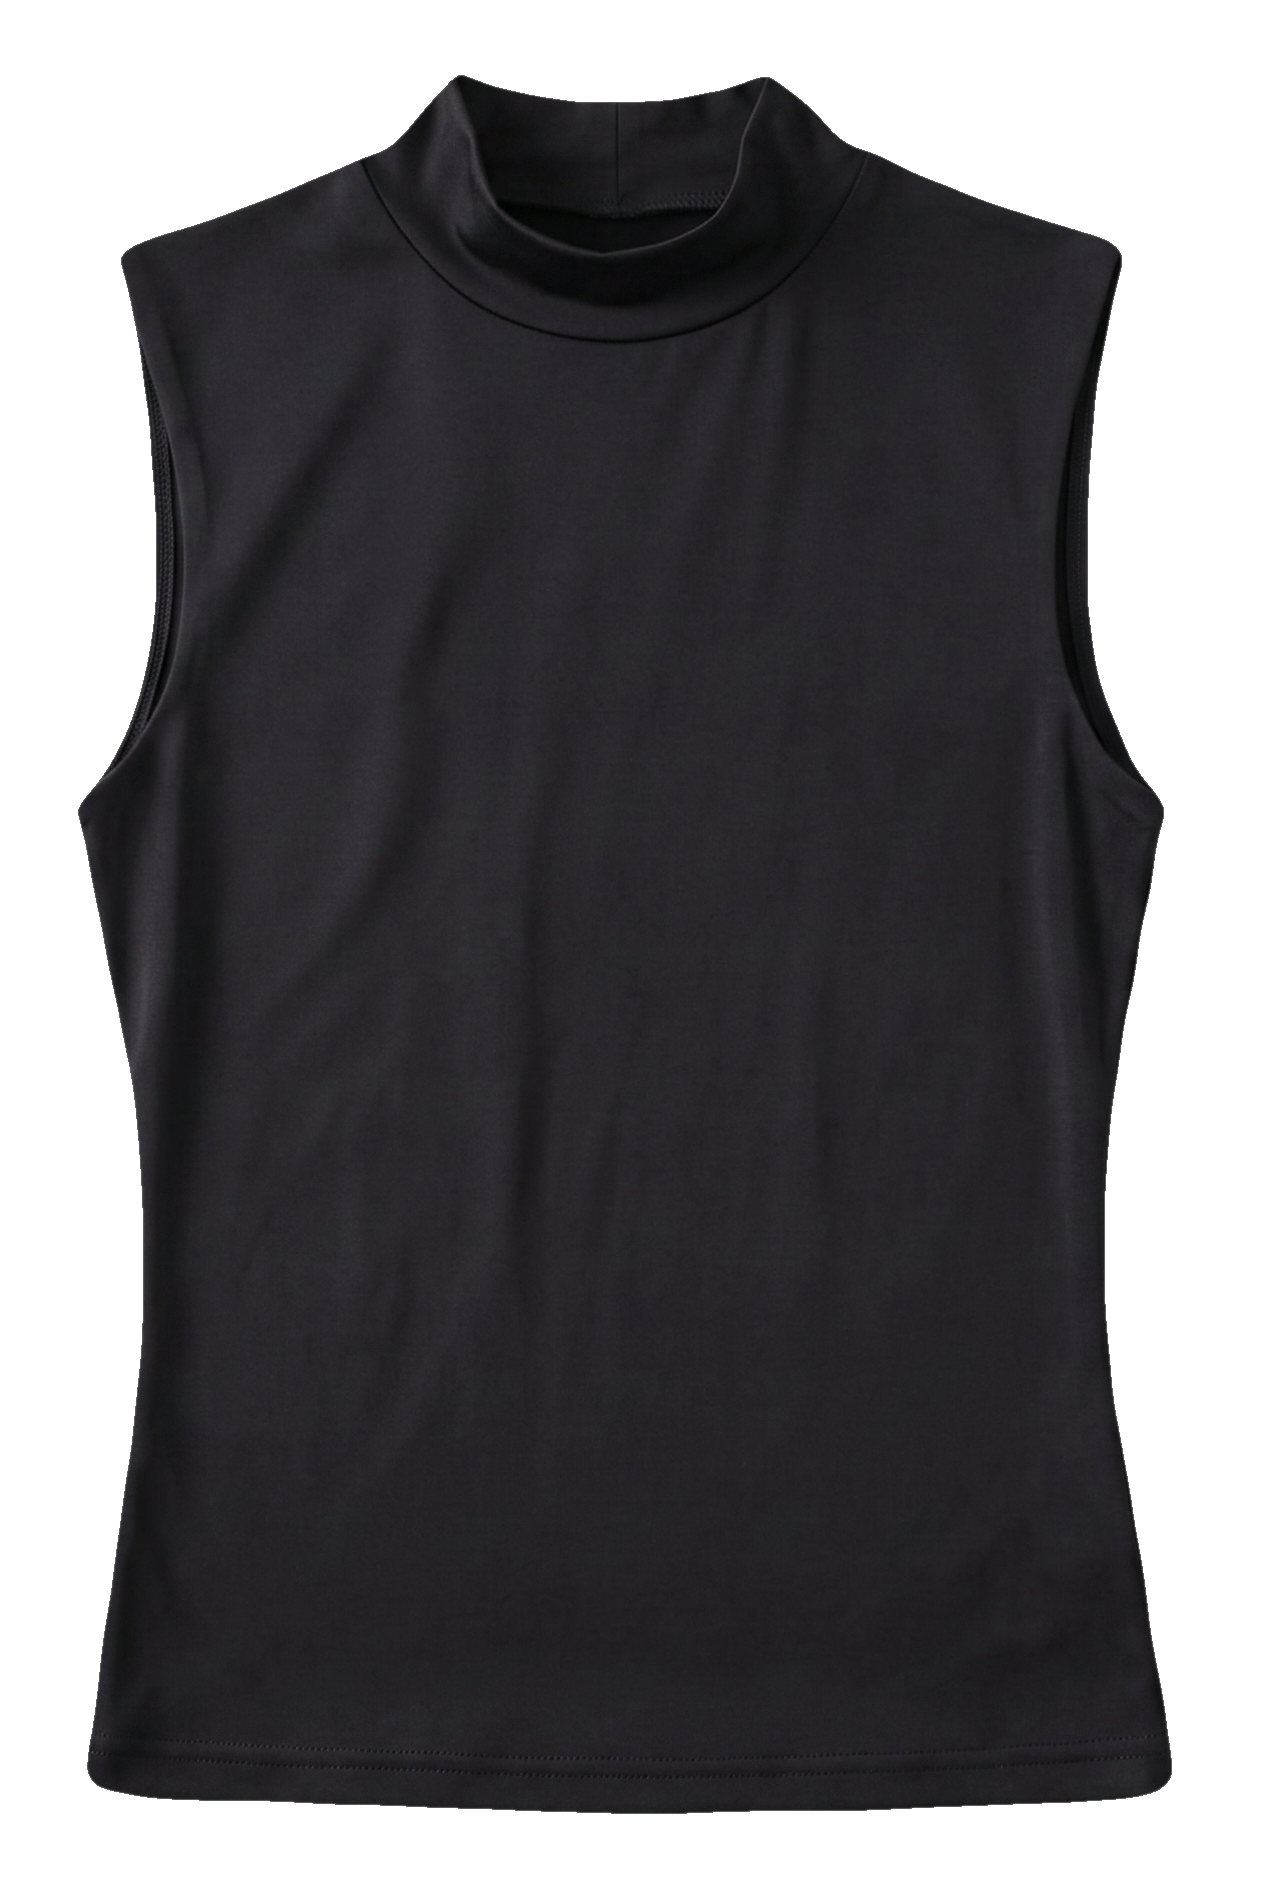
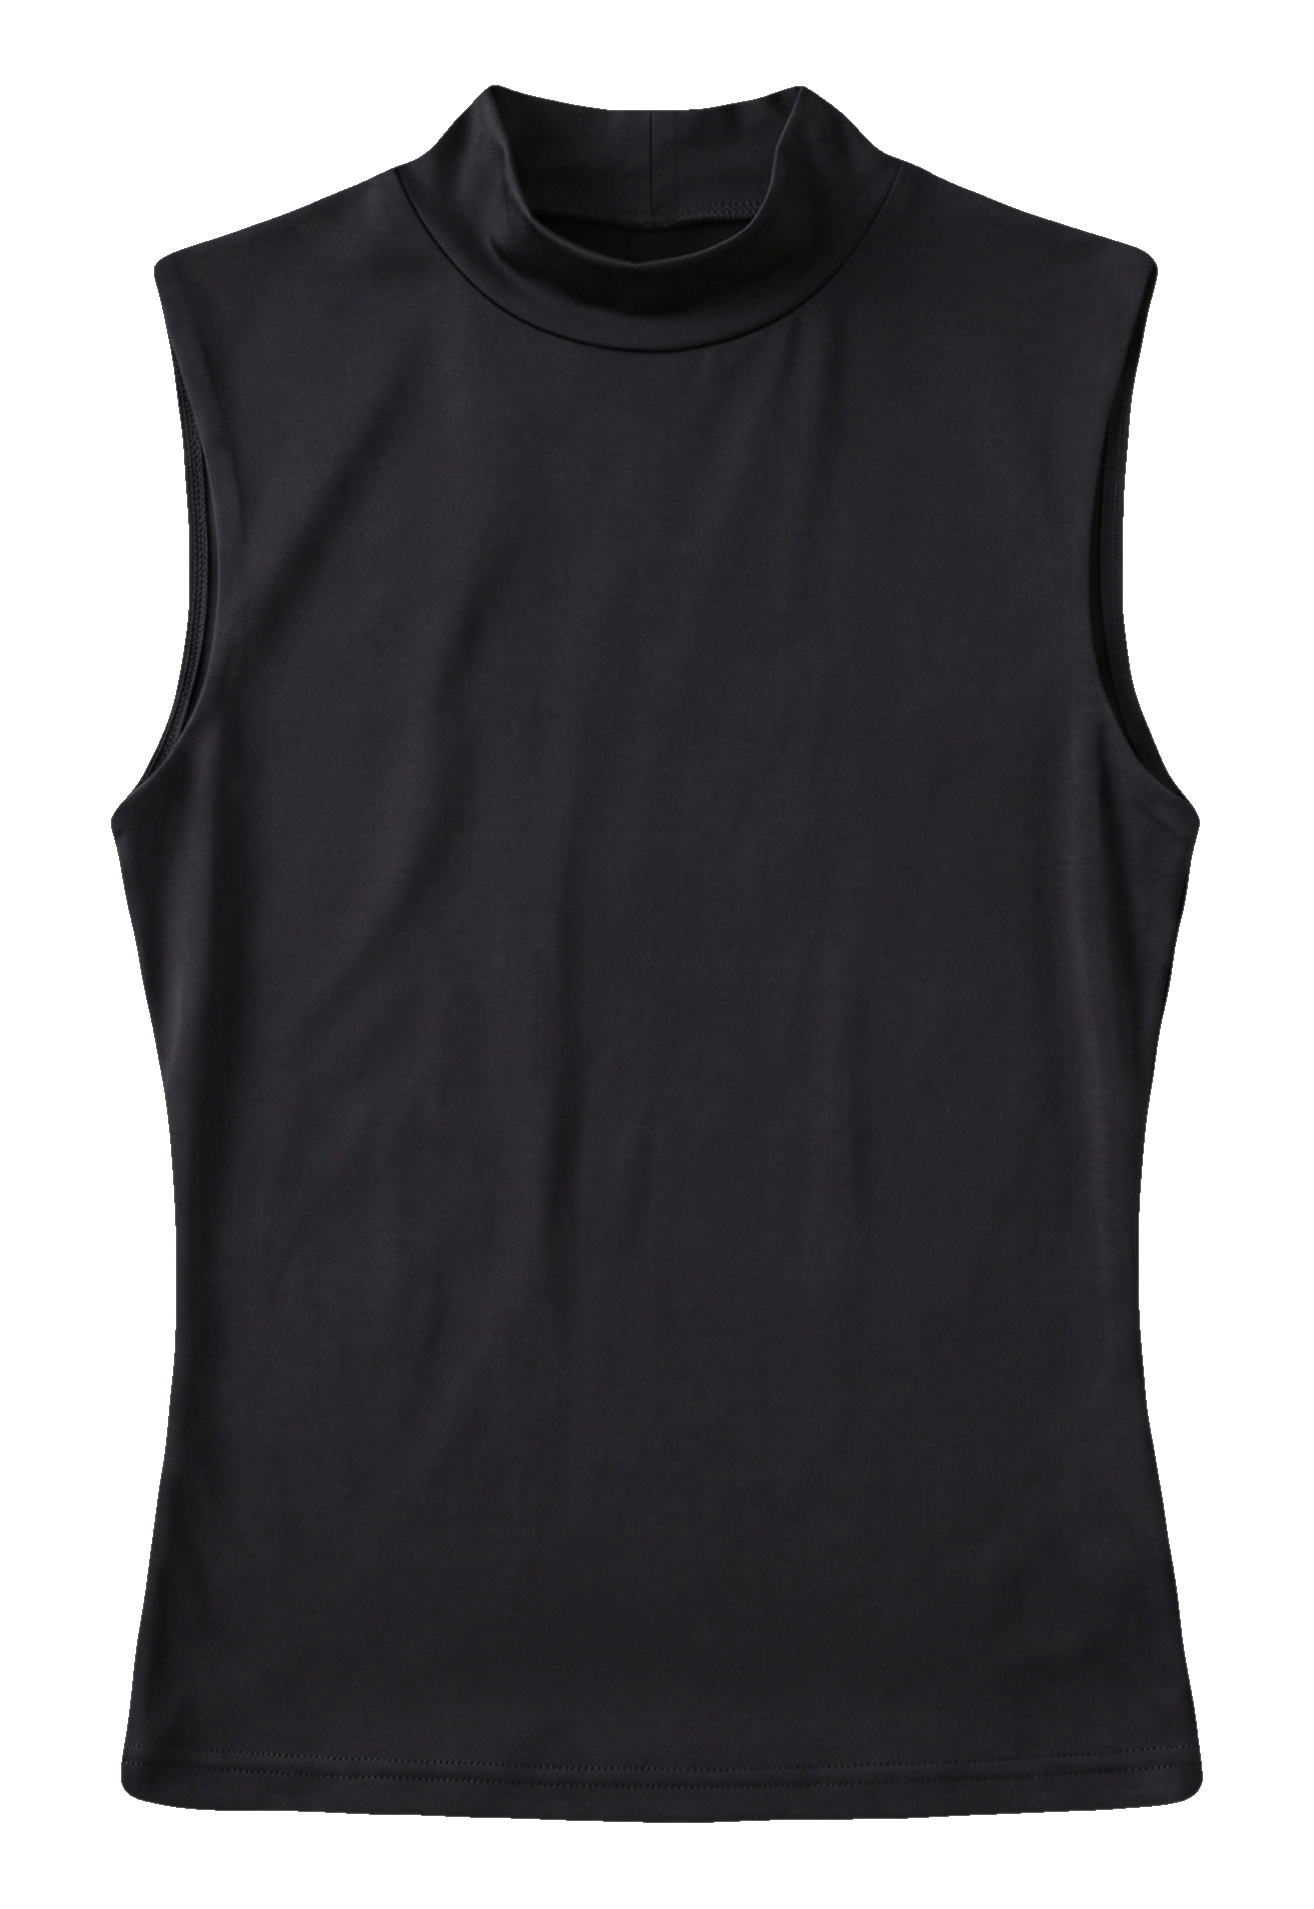
Align the garments, add beige to the spin, and shift the brown reel
Three changes to the reveal.

Alignment: a shared crop rectangle keeps scale but not position, and these
garments were laid out differently enough that their bounding boxes sat up to
38px apart, so the row read as visibly out of line at rest. Each garment's own
box is now centred in a common canvas - same scale, same centreline.

Beige joins the strip as a fourth colourway, so it cycles past during the
spin, but the reels still start on brown / white / black and still land on
white / black / brown; beige is only ever glimpsed in motion.

The settled brown reel now breathes between brown and beige via a new
reels.colorShift, cross-fading a second garment over the detent. Its period
is set so two full cycles fit the tail and the final frame lands exactly back
on brown rather than mid-fade.

Matting also learned to fit the backdrop as a quadratic surface per channel.
The beige shot falls off from rgb(211,208,215) to rgb(167,163,171) across the
frame; against a single median colour its dark corner read as far from the
backdrop as the garment, and the whole frame matted as foreground.

Claude-Session: https://claude.ai/code/session_0176GuHuZoF2gQcbdP876Pv9

diff --git a/src/slot.js b/src/slot.js
@@ -127,6 +127,29 @@ window.build = function (cfg) {
     });
   }
 
+  /* ---- colourway shift overlay, sitting in the detent ---- */
+  const shiftsEl = document.getElementById('shifts');
+  shiftsEl.innerHTML = '';
+  S.shifts = [];
+  const cs = cfg.reels.colorShift;
+  for (let r = 0; r < R; r++) {
+    const col = document.createElement('div');
+    col.className = 'shiftcol';
+    const box = document.createElement('div');
+    box.className = 'cellbox';
+    box.style.top = cellPad + 'px';
+    box.style.height = cellH + 'px';
+    const img = document.createElement('img');
+    if (cs && cs.reel === r) {
+      img.src = S.P[cs.to].src;
+      img.style.transform = `scale(${cfg.reels.cellScale})`;
+    }
+    box.appendChild(img);
+    col.appendChild(box);
+    shiftsEl.appendChild(col);
+    S.shifts.push(cs && cs.reel === r ? img : null);
+  }
+
   /* ---- per-reel light sweeps ---- */
   const sw = document.getElementById('sweeps');
   sw.innerHTML = '';
@@ -229,6 +252,18 @@ window.setTime = function (t) {
   shake += spike(t - tl.spinStart, 0.22) * Math.sin((t - tl.spinStart) * 150) * (fx.shakePx ?? 5);
 
   S.flash.style.opacity = flash.toFixed(3);
+
+  /* colourway shift: the settled reel breathes between its two finishes */
+  const cs = S.cfg.reels.colorShift;
+  if (cs) {
+    const img = S.shifts[cs.reel];
+    if (img) {
+      const dt = t - (S.reels[cs.reel].stop + (cs.delay ?? 0.12));
+      const a = dt <= 0 ? 0
+        : 0.5 - 0.5 * Math.cos(2 * Math.PI * dt / (cs.period ?? 0.5));
+      img.style.opacity = a.toFixed(3);
+    }
+  }
 
   /* the glass charges while the handle is being pulled */
   const charge = S.cfg.lever

diff --git a/src/scene.html b/src/scene.html
@@ -81,6 +81,15 @@
     mix-blend-mode:screen; opacity:0;
   }
 
+  /* colourway shift: a second garment cross-faded over the settled detent */
+  #shifts { position:absolute; inset:0; display:flex; pointer-events:none; z-index:2; }
+  .shiftcol { position:relative; flex:1 1 0; overflow:hidden; }
+  .shiftcol .cellbox {
+    position:absolute; left:0; right:0;
+    display:flex; align-items:center; justify-content:center;
+  }
+  .shiftcol img { width:100%; height:100%; object-fit:contain; display:block; opacity:0; }
+
   /* per-reel light sweep that runs down the cell as the detent catches */
   #sweeps { position:absolute; inset:0; display:flex; pointer-events:none; z-index:3; }
   .sweep { position:relative; flex:1 1 0; overflow:hidden; }
@@ -131,6 +140,7 @@
   </svg>
   <div id="panel">
     <div id="reels"></div>
+    <div id="shifts"></div>
     <div id="sweeps"></div>
     <div id="spec"></div>
     <div id="rim"></div>

diff --git a/tools/ingest.py b/tools/ingest.py
@@ -49,9 +49,9 @@ def main():
 
     files, tmp = gather(args[0])
     try:
-        if len(files) != 3:
+        if len(files) not in (3, 4):
             raise SystemExit(
-                f'expected 3 product photos, found {len(files)}:\n  ' +
+                f'expected 3 or 4 product photos, found {len(files)}:\n  ' +
                 '\n  '.join(files or ['(none)']))
 
         shots = []
@@ -65,41 +65,46 @@ def main():
             ys, xs = np.where(alpha > 0.06)
             shots.append({'src': f, 'rgb': rgb, 'alpha': alpha, 'luma': luma,
                           'mean': mean, 'bbox': (ys.min(), ys.max(), xs.min(), xs.max())})
-            print(f'  {os.path.basename(f):<34} garment rgb'
-                  f'({mean[0]:3.0f},{mean[1]:3.0f},{mean[2]:3.0f})  luma {luma:5.1f}')
+            print(f'  {os.path.basename(f)[-30:]:<32} rgb'
+                  f'({mean[0]:3.0f},{mean[1]:3.0f},{mean[2]:3.0f})  luma {luma:5.1f}'
+                  f'  box {xs.max()-xs.min()+1}x{ys.max()-ys.min()+1}')
 
-        # lightest is white, darkest is black, the middle one is brown
+        # sorted darkest to lightest: black, brown, beige, white
         shots.sort(key=lambda s: s['luma'])
-        names = ['black', 'brown', 'white']
-        for s, n in zip(shots, names):
+        order = {3: ['black', 'brown', 'white'],
+                 4: ['black', 'brown', 'beige', 'white']}[len(shots)]
+        for s, n in zip(shots, order):
             s['name'] = n
+            warm = s['mean'][0] - s['mean'][2]
+            print(f'  {n:<6} <- {os.path.basename(s["src"])[-30:]:<32} warmth R-B {warm:+.0f}')
 
-        warm = shots[1]['mean'][0] - shots[1]['mean'][2]
-        print(f'\n  black  <- {os.path.basename(shots[0]["src"])}')
-        print(f'  brown  <- {os.path.basename(shots[1]["src"])}   (warmth R-B = {warm:+.0f})')
-        print(f'  white  <- {os.path.basename(shots[2]["src"])}')
-        if warm < 8:
-            print('  NOTE: the middle photo is not obviously warm; check the '
-                  'brown assignment above before rendering.')
-
-        # one shared crop across all three
-        y0 = min(s['bbox'][0] for s in shots); y1 = max(s['bbox'][1] for s in shots)
-        x0 = min(s['bbox'][2] for s in shots); x1 = max(s['bbox'][3] for s in shots)
-        pad = int(round(0.04 * max(y1-y0, x1-x0)))
-        H, W = shots[0]['alpha'].shape
-        y0, y1 = max(0, y0-pad), min(H, y1+1+pad)
-        x0, x1 = max(0, x0-pad), min(W, x1+1+pad)
+        # A shared crop rectangle keeps scale but not position: these garments
+        # were laid out slightly differently, so their bounding boxes sit up to
+        # 38px apart and the reels read as misaligned. Centre each garment's own
+        # box in a common canvas instead - same scale, same centreline.
+        boxw = max(s['bbox'][3] - s['bbox'][2] + 1 for s in shots)
+        boxh = max(s['bbox'][1] - s['bbox'][0] + 1 for s in shots)
+        pad = int(round(0.04 * max(boxw, boxh)))
+        CW, CH = boxw + 2*pad, boxh + 2*pad
 
         os.makedirs(outdir, exist_ok=True)
         for s in shots:
-            write_rgba(f'{outdir}/{s["name"]}.png',
-                       np.dstack([s['rgb'][y0:y1, x0:x1], s['alpha'][y0:y1, x0:x1]*255]))
+            y0, y1, x0, x1 = s['bbox']
+            sub_rgb = s['rgb'][y0:y1+1, x0:x1+1]
+            sub_a = s['alpha'][y0:y1+1, x0:x1+1]
+            h, w = sub_a.shape
+            oy, ox = (CH - h) // 2, (CW - w) // 2
+            canvas = np.zeros((CH, CW, 4), np.float32)
+            canvas[oy:oy+h, ox:ox+w, :3] = sub_rgb
+            canvas[oy:oy+h, ox:ox+w, 3] = sub_a * 255
+            write_rgba(f'{outdir}/{s["name"]}.png', canvas)
+            print(f'    {s["name"]:<6} {w}x{h} centred in {CW}x{CH}')
 
         marker = os.path.join(outdir, '.STANDIN')
         if os.path.exists(marker):
             os.remove(marker)
             print('\n  placeholder marker cleared - renders are unblocked')
-        print(f'  shared crop {x1-x0}x{y1-y0} -> {outdir}/')
+        print(f'  {len(shots)} products -> {outdir}/  (common canvas {CW}x{CH})')
     finally:
         if tmp:
             shutil.rmtree(tmp, ignore_errors=True)

diff --git a/tools/cutout.py b/tools/cutout.py
@@ -62,15 +62,43 @@ def otsu(x):
     return centers[int(np.nanargmax(between))]
 
 
+def fit_backdrop(im, ring=48):
+    """Model the backdrop as a smooth quadratic surface across the frame.
+
+    Studio sweeps are rarely evenly lit: one of these shots falls off from
+    rgb(211,208,215) at the top-left to rgb(167,163,171) at the bottom-right.
+    Against a single median colour the dark corner reads as far from the
+    backdrop as the garment does, and the whole frame mattes as foreground.
+    Fitting 1, x, y, x^2, xy, y^2 per channel to the border tracks the falloff.
+    """
+    h, w, _ = im.shape
+    yy, xx = np.mgrid[0:h, 0:w]
+    xn, yn = xx / w - 0.5, yy / h - 0.5
+
+    edge = np.zeros((h, w), bool)
+    edge[:ring] = edge[-ring:] = True
+    edge[:, :ring] = edge[:, -ring:] = True
+
+    basis = lambda X, Y: np.stack([np.ones_like(X), X, Y, X*X, X*Y, Y*Y], axis=-1)
+    A = basis(xn[edge], yn[edge])
+    full = basis(xn, yn).reshape(-1, 6)
+
+    out = np.empty_like(im)
+    for c in range(3):
+        # median-ish fit: drop the tail so a garment touching the edge can't pull it
+        coef, *_ = np.linalg.lstsq(A, im[..., c][edge], rcond=None)
+        pred = A @ coef
+        keep = np.abs(im[..., c][edge] - pred) < 3 * np.std(im[..., c][edge] - pred) + 1e-6
+        coef, *_ = np.linalg.lstsq(A[keep], im[..., c][edge][keep], rcond=None)
+        out[..., c] = (full @ coef).reshape(h, w)
+    return out
+
+
 def matte(src, tol_lo=10.0, tol_hi=34.0, feather=1.4):
     w, h = probe(src)
     im = read_rgb(src, w, h)
 
-    # backdrop colour from a border ring; median so a stray pixel can't skew it
-    ring = np.concatenate([im[:8].reshape(-1, 3), im[-8:].reshape(-1, 3),
-                           im[:, :8].reshape(-1, 3), im[:, -8:].reshape(-1, 3)])
-    bg = np.median(ring, axis=0)
-
+    bg = fit_backdrop(im)
     dist = np.linalg.norm(im - bg, axis=2)
     sigma = max(3.0, 0.006 * max(w, h))
     smooth = ndimage.gaussian_filter(dist, sigma)
@@ -110,7 +138,7 @@ def matte(src, tol_lo=10.0, tol_hi=34.0, feather=1.4):
     # despill: unmix the backdrop out of edge pixels so no halo survives
     a3 = np.clip(alpha, 1e-3, 1)[..., None]
     rgb = np.where(inner[..., None], im, np.clip(bg + (im - bg) / a3, 0, 255))
-    return rgb, alpha, bg
+    return rgb, alpha, bg.reshape(-1, 3).mean(axis=0)
 
 
 def main():

diff --git a/README.md b/README.md
@@ -94,6 +94,7 @@ Re-run the tool and update `timeline` if the audio changes.
 | `panel.cx` / `cy` / `w` / `h` | Placement, as fractions of the frame |
 | `panel.rimDisplace` / `liquidFreq` | The liquid bend in the edge band. 0 = plain frosted glass |
 | `reels.targets` | Which product each reel lands on, left to right |
+| `reels.colorShift` | A settled reel breathing between two finishes: `{reel, to, delay, period}` |
 | `reels.starts` | What each reel shows before the spin |
 | `reels.loops` | Whole revolutions per reel. **Integers only** |
 | `reels.decel` / `creep` | Deceleration shape, and the speed held until the detent catches |
@@ -157,9 +158,21 @@ real file:
   `python3 tools/ingest.py shots.zip`
 - **Commit them.** Drop them in `assets/incoming/` on GitHub, then pull.
 
-`tools/ingest.py` sorts them into white / black / brown by the garment's own
-mean colour — lightest, darkest, and the warm one in between — so whatever the
-files are called, they land in the right reel.
+`tools/ingest.py` sorts three or four photos by the garment's own mean colour —
+darkest to lightest is black, brown, beige, white — so whatever the files are
+called, they land in the right reel.
+
+Two things it handles that a naive crop does not:
+
+- **Alignment.** A shared crop rectangle preserves scale but not position.
+  These garments were laid out slightly differently, so their bounding boxes sit
+  up to 38px apart and the reels read as visibly out of line. Each garment's own
+  box is centred in a common canvas instead — same scale, same centreline.
+- **Uneven backdrops.** One shot falls off from rgb(211,208,215) at the
+  top-left to rgb(167,163,171) at the bottom-right. Against a single median
+  colour that dark corner reads as far from the backdrop as the garment does,
+  and the whole frame mattes as foreground. The backdrop is fitted as a
+  quadratic surface per channel so the falloff is tracked.
 
 ## Placeholders cannot ship by accident
 
